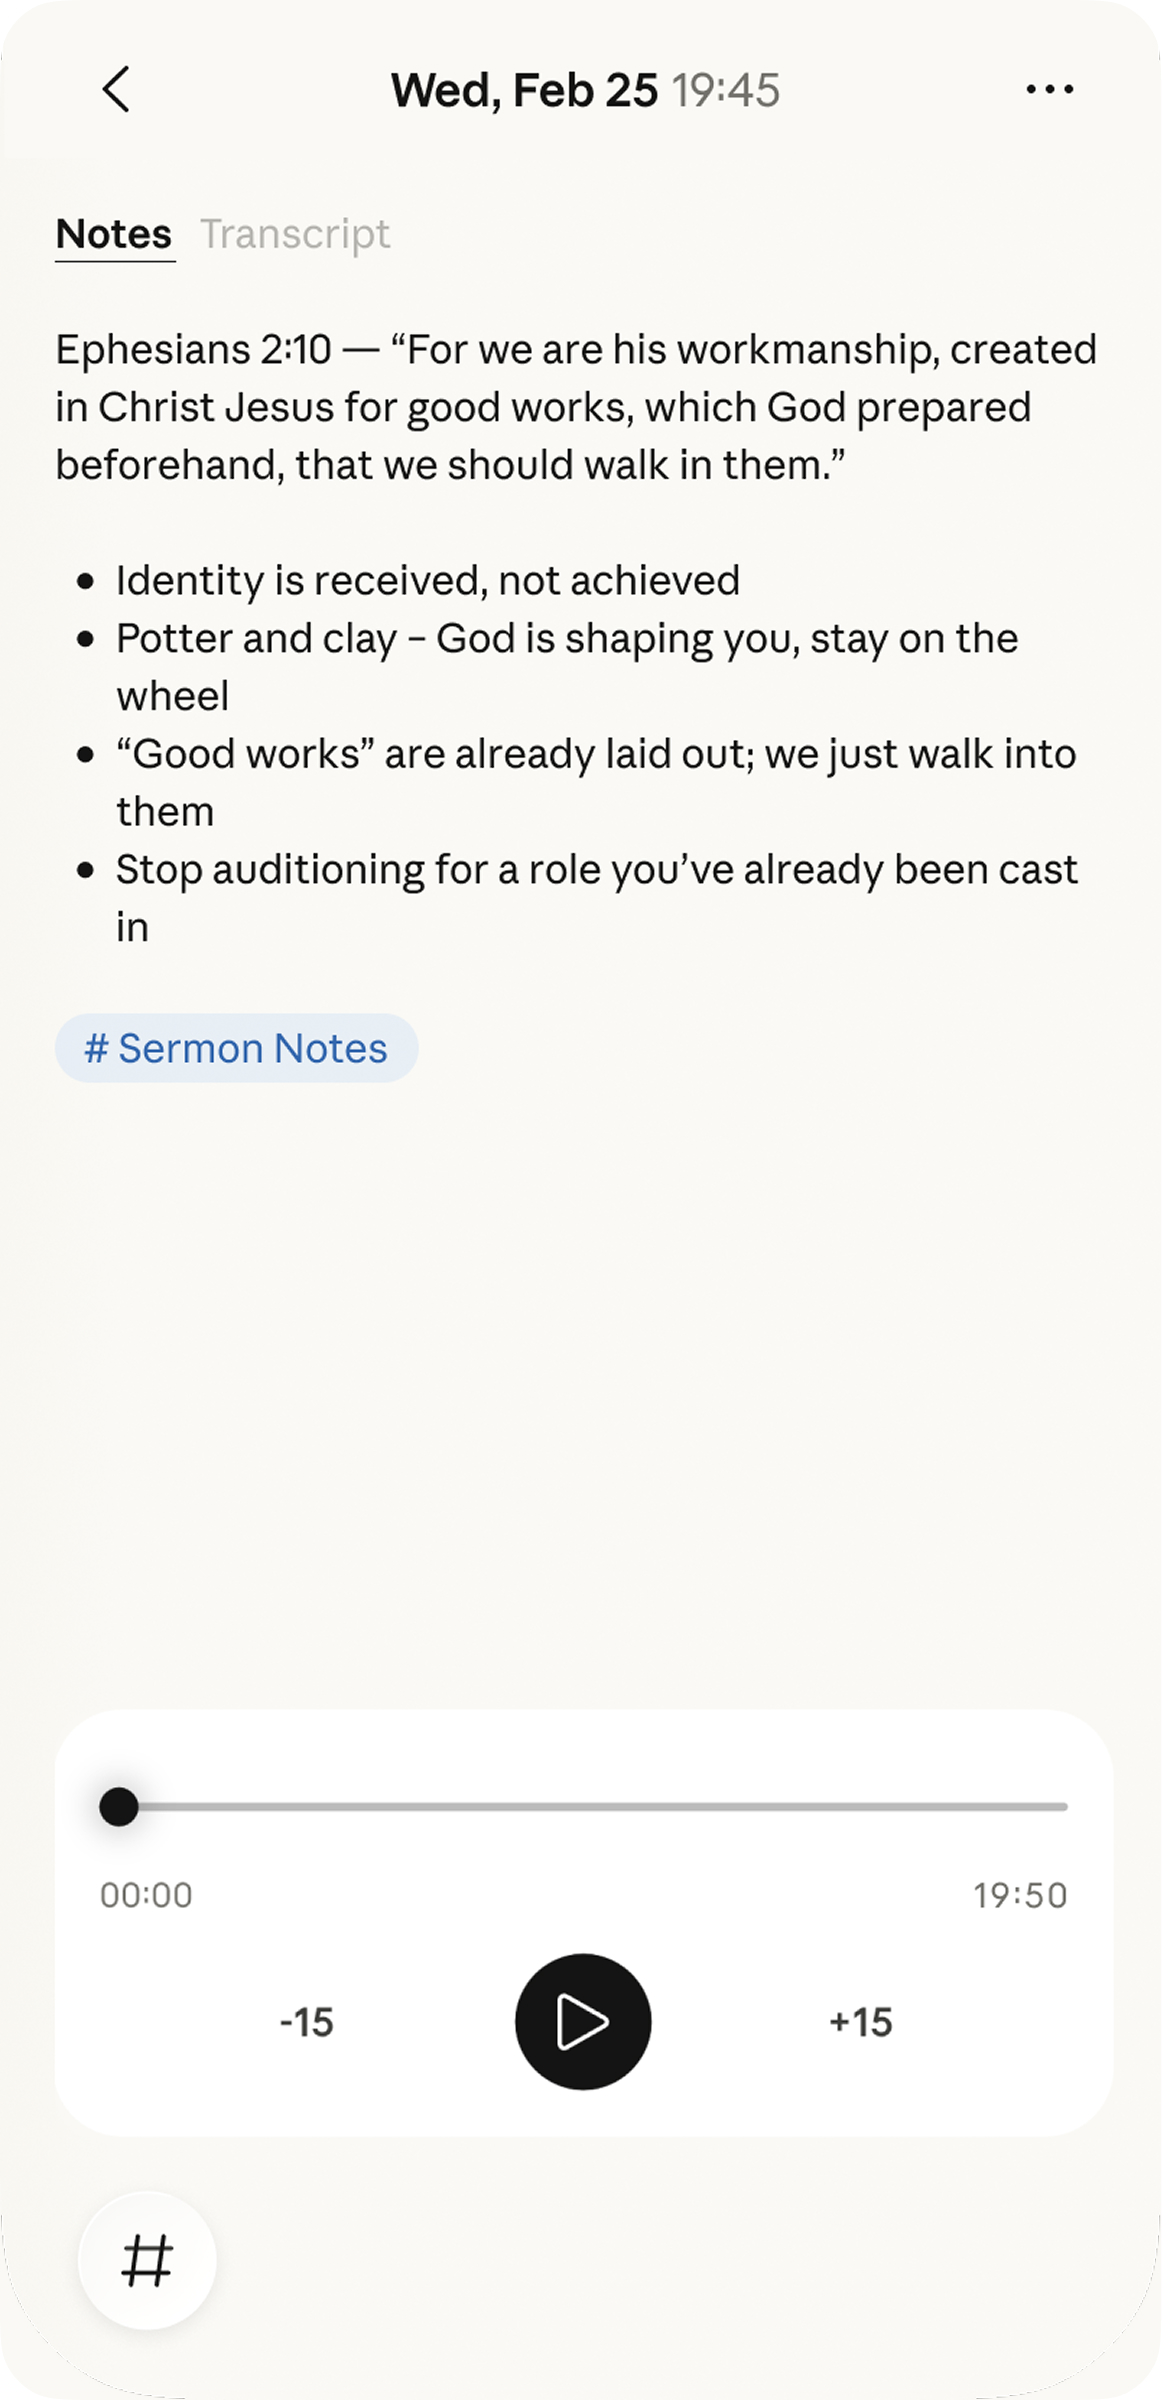
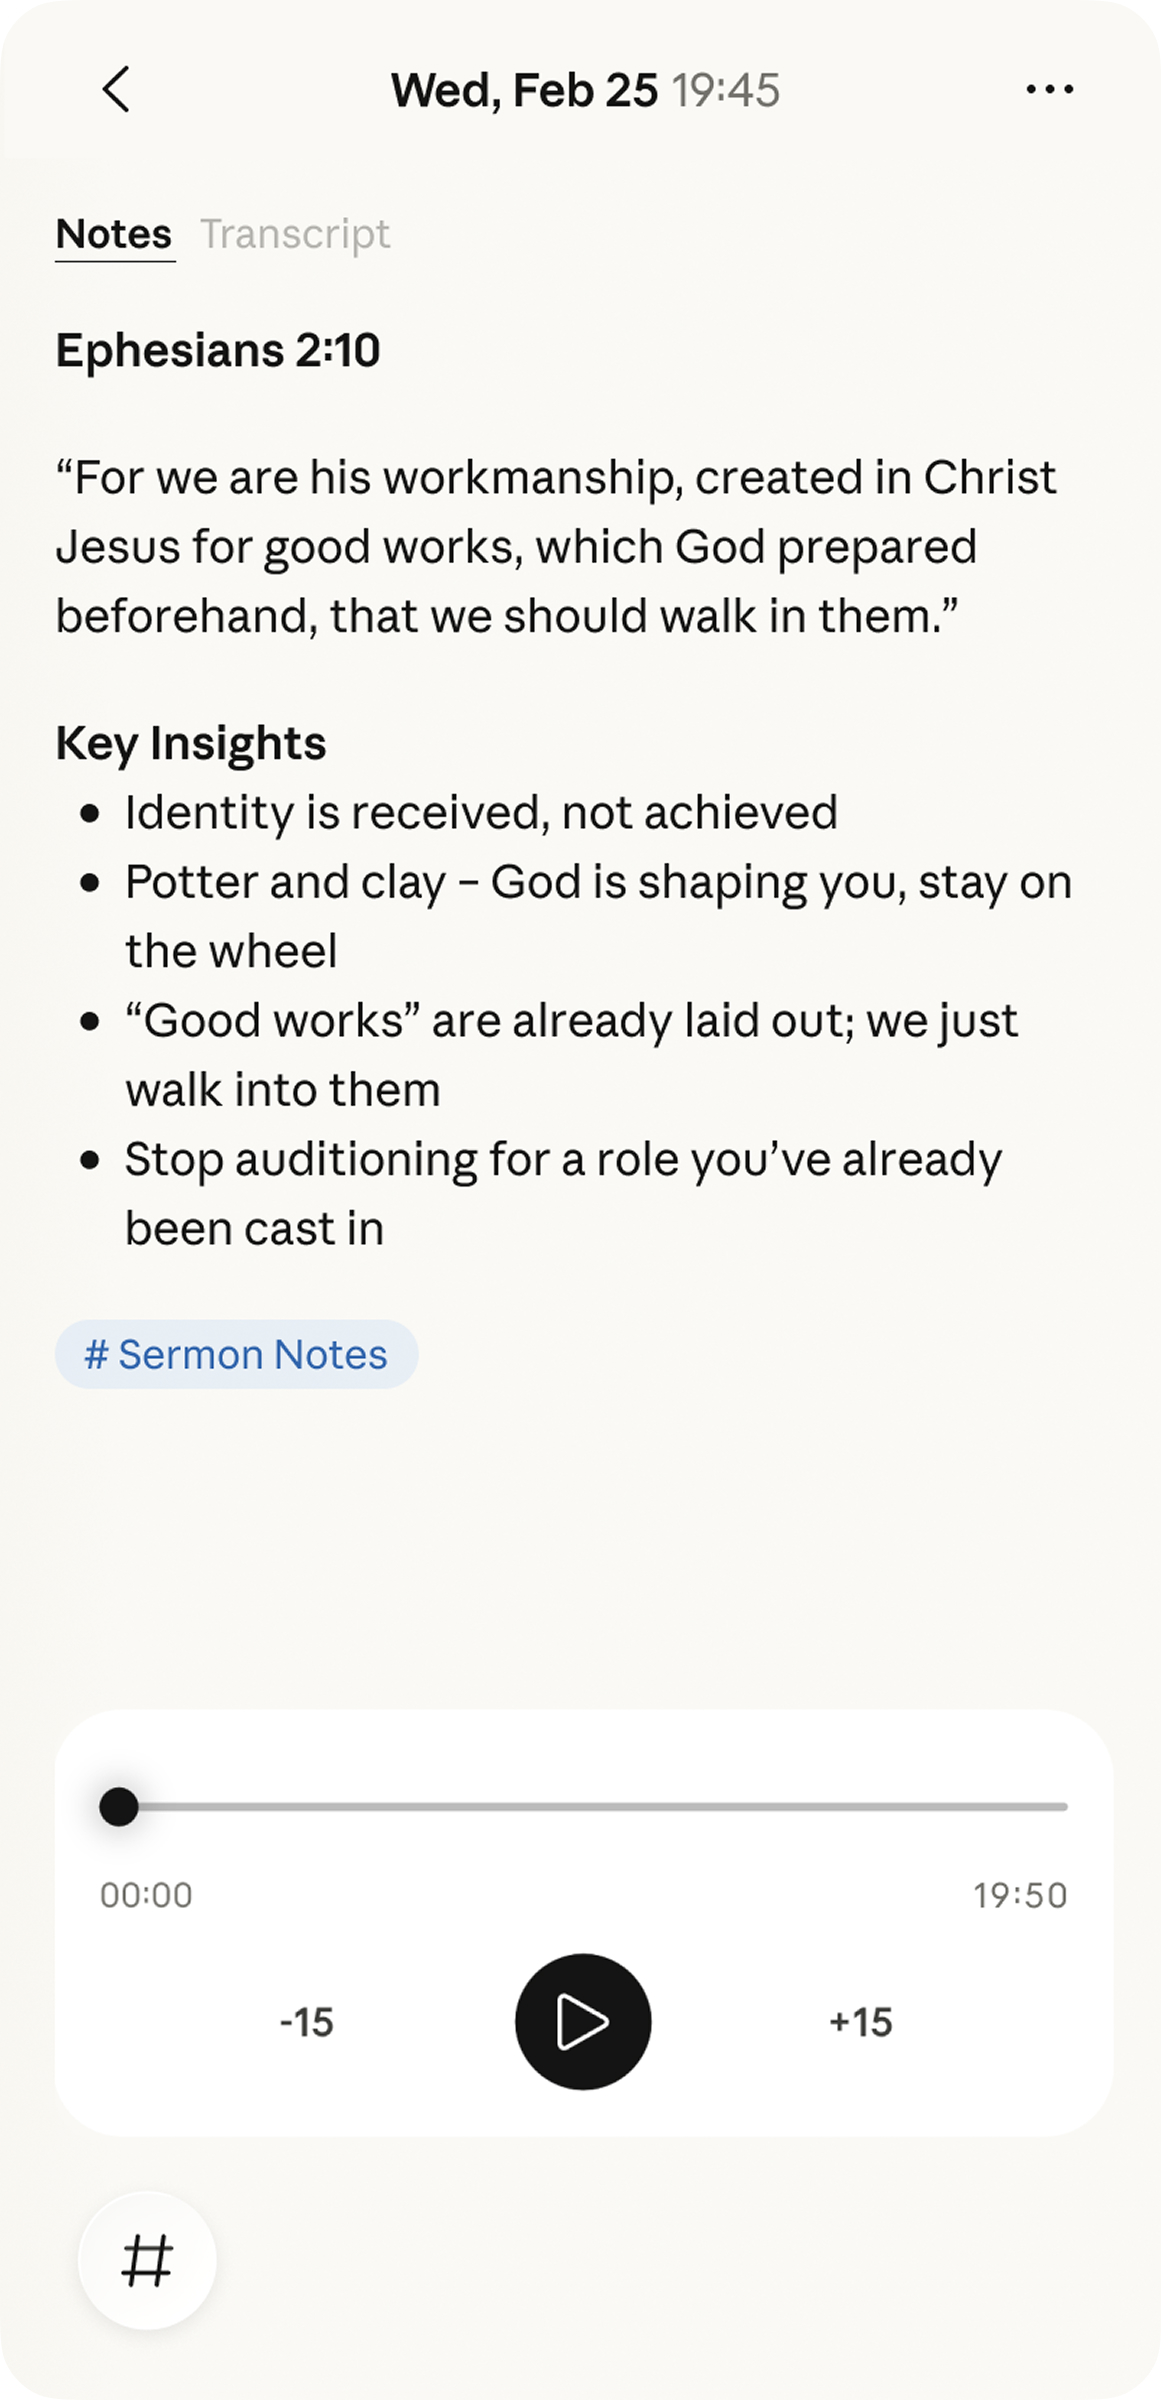
DayInLife: cycle between two app screenshots for scenario 4
- Add 4-app_1.jpg and auto-switch between 4-app.jpg and 4-app_1.jpg every 2.5s
- Refactor app field to apps[] array to support multi-image scenarios
- Update 2-app.jpg and 4-app.jpg with new versions
- Update CLAUDE.md to reflect current component structure and font (Manrope)

diff --git a/app/components/DayInLife.tsx b/app/components/DayInLife.tsx
@@ -1,6 +1,6 @@
 "use client";
 
-import { useState } from "react";
+import { useState, useEffect } from "react";
 import Image from "next/image";
 
 const SCENARIOS = [
@@ -8,7 +8,7 @@ const SCENARIOS = [
     time: "7:45 AM",
     label: "Catching a dream",
     photo: "/images/day-in-life/1-photo.jpg",
-    app:   "/images/day-in-life/1-app.jpg",
+    apps:  ["/images/day-in-life/1-app.jpg"],
     photoAlt: "Woman lying in bed, ring on her finger",
     appAlt:   "Journal app showing morning capture",
   },
@@ -16,7 +16,7 @@ const SCENARIOS = [
     time: "11:15 AM",
     label: "When tension rises",
     photo: "/images/day-in-life/2-photo.jpg",
-    app:   "/images/day-in-life/2-app.jpg",
+    apps:  ["/images/day-in-life/2-app.jpg"],
     photoAlt: "Man pausing, hands folded over laptop",
     appAlt:   "Mood app showing Uneasy state at 11:00",
   },
@@ -24,7 +24,7 @@ const SCENARIOS = [
     time: "3:00 PM",
     label: "Praying for a friend",
     photo: "/images/day-in-life/3-photo.jpg",
-    app:   "/images/day-in-life/3-app.jpg",
+    apps:  ["/images/day-in-life/3-app.jpg"],
     photoAlt: "Hands with Bless Ring, reaching out",
     appAlt:   "Community prayer feed",
   },
@@ -32,7 +32,7 @@ const SCENARIOS = [
     time: "7:00 PM",
     label: "At Bible study",
     photo: "/images/day-in-life/4-photo.jpg",
-    app:   "/images/day-in-life/4-app.jpg",
+    apps:  ["/images/day-in-life/4-app.jpg", "/images/day-in-life/4-app_1.jpg"],
     photoAlt: "Couple reading Bible together",
     appAlt:   "Sermon notes — Ephesians 2:10",
   },
@@ -40,7 +40,7 @@ const SCENARIOS = [
     time: "10:22 PM",
     label: "Evening prayer",
     photo: "/images/day-in-life/5-photo.jpg",
-    app:   "/images/day-in-life/5-app.jpg",
+    apps:  ["/images/day-in-life/5-app.jpg"],
     photoAlt: "Woman scrolling evening devotional on phone",
     appAlt:   "Scripture — Philippians 4:6",
   },
@@ -48,7 +48,18 @@ const SCENARIOS = [
 
 export default function DayInLife() {
   const [active, setActive] = useState(0);
+  const [appIndex, setAppIndex] = useState(0);
   const scene = SCENARIOS[active];
+
+  // Cycle through multiple app images when the active scenario has more than one
+  useEffect(() => {
+    setAppIndex(0);
+    if (scene.apps.length <= 1) return;
+    const id = setInterval(() => {
+      setAppIndex((i) => (i + 1) % scene.apps.length);
+    }, 2500);
+    return () => clearInterval(id);
+  }, [active, scene.apps.length]);
 
   return (
     <section className="px-[64px] pt-[120px] pb-[160px] max-w-[1512px] mx-auto">
@@ -104,8 +115,8 @@ export default function DayInLife() {
           style={{ boxShadow: "0px 8px 40px 0px rgba(24,18,18,0.06)" }}
         >
           <Image
-            key={scene.app}
-            src={scene.app}
+            key={scene.apps[appIndex]}
+            src={scene.apps[appIndex]}
             alt={scene.appAlt}
             fill
             className="object-cover object-top"

diff --git a/CLAUDE.md b/CLAUDE.md
@@ -16,37 +16,47 @@ No lint or test scripts are configured.
 
 ## Architecture
 
-Single-page marketing site for the "Bless Ring" product. The entire page lives in `app/page.tsx` — no routing, no additional pages.
+Single-page marketing site for the "Bless Ring" product. No routing — one page, extracted into focused components.
 
 ```
 app/
-  layout.tsx      # Root layout: loads Inter + Lora fonts, sets metadata
-  globals.css     # Tailwind v4 import + CSS custom properties (colors, fonts)
-  page.tsx        # Full landing page + inline sub-components
-public/images/    # All product/lifestyle images (PNG)
+  layout.tsx                  # Root layout: Manrope + Lora fonts, AmbientGlow, Header, ScrollAnimations
+  globals.css                 # Tailwind v4 import, CSS vars, keyframe animations, [data-animate] system
+  page.tsx                    # Page shell — composes section markup + imported components
+  components/
+    Header.tsx                # Fixed nav bar
+    AmbientGlow.tsx           # Animated background gradient blobs (fixed, z:0)
+    ScrollAnimations.tsx      # IntersectionObserver that adds .is-visible to [data-animate] elements
+    FeatureSections.tsx       # Four journey-step feature blocks with stepper UI
+    ProductSpecs.tsx          # Ring specs layout (ring image + spec cards on each side)
+    DayInLife.tsx             # Tabbed scenario section
+public/images/                # All product/lifestyle images
 ```
 
 ### Key conventions
 
-**Tailwind v4** — configured via `@import "tailwindcss"` in `globals.css` with `@theme inline` for font variables. This differs significantly from v3 (no `tailwind.config.js`).
+**Tailwind v4** — configured via `@import "tailwindcss"` in `globals.css` with `@theme inline` for font variables. No `tailwind.config.js`.
 
-**Fonts** — loaded via `next/font/google` in `layout.tsx`, exposed as CSS variables `--font-inter` and `--font-lora`. Applied inline with `style={{ fontFamily: "var(--font-inter)" }}` (not via Tailwind font utilities).
+**Fonts** — Manrope (sans, weights 300–600) and Lora (serif/italic) loaded via `next/font/google`, exposed as `--font-manrope` and `--font-lora`. Applied inline: `style={{ fontFamily: "var(--font-lora)", fontStyle: "italic" }}`. Tailwind font utilities are not used.
 
-**Design width** — 1512px. Sections use `max-w-[1512px] mx-auto` with fixed `px-[200px]` padding. All sizing is pixel-exact to match Figma (node `3756-10902`).
+**Scroll animations** — Add `data-animate` to any element; `ScrollAnimations.tsx` uses IntersectionObserver to toggle `.is-visible`, which triggers the CSS transition defined in `globals.css`. Use `style={{ transitionDelay: "120ms" }}` for staggered reveals.
 
-**Color palette** (defined as CSS vars in `globals.css`, used as Tailwind arbitrary values):
-- `#faf8f5` — page background
-- `#141413` — primary text / CTA button
-- `#3d3d3a` — secondary text
-- `#73726c` — tertiary / inactive stepper items
+**Z-index layering** — `AmbientGlow` renders at `z:0` (fixed). All page content wraps in a `z:1` div in `layout.tsx` to sit above the glow.
+
+**Design width** — 1512px. Sections use `max-w-[1512px] mx-auto` with `px-[64px]` padding. Sizing is pixel-exact to match Figma node `3756-10902`.
+
+**Color palette** (CSS vars in `globals.css`, used as Tailwind arbitrary values):
+- `#faf8f5` — page background (`--color-bg`)
+- `#141413` — primary text / CTA button (`--color-text-primary`)
+- `#3d3d3a` — secondary text (`--color-text-secondary`)
+- `#73726c` — tertiary / inactive items (`--color-text-tertiary`)
 - `#bfb5a7` — hero section background fallback
 
 **Page structure** (top to bottom in `app/page.tsx`):
-1. Hero — `h-[836px]`, hero-bg.png with gradient overlay, headline + preorder CTA
-2. "Stay Close to God" intro — centered text with decorative radial-gradient blobs
-3. Four `<FeatureSection>` — each renders the full `JOURNEY_STEPS` stepper with one active step + a paired photo
-4. Product specs — ring image centered, 3 specs on each side
-5. "Stay Close to God" side-by-side layout
-6. Three full-width lifestyle photos (aspect-ratio locked)
-
-The `FeatureStepper` component renders all four journey steps every time, highlighting the `activeIndex` step with a taller vertical bar and visible description text.
+1. Hero — `h-[836px]`, Hero.png with gradient overlay, headline + preorder CTA
+2. "Ordinary Days, Faithfully Kept" — two-column intro text
+3. `<FeatureSections />` — journey stepper (Capture / Be Seen / Reflect / Witness) + photos
+4. `<ProductSpecs />` — ring image centered, specs on each side
+5. `<DayInLife />` — tabbed day-in-life scenarios
+6. Quote block — centered closing poem
+7. Closing CTA — headline + preorder button
